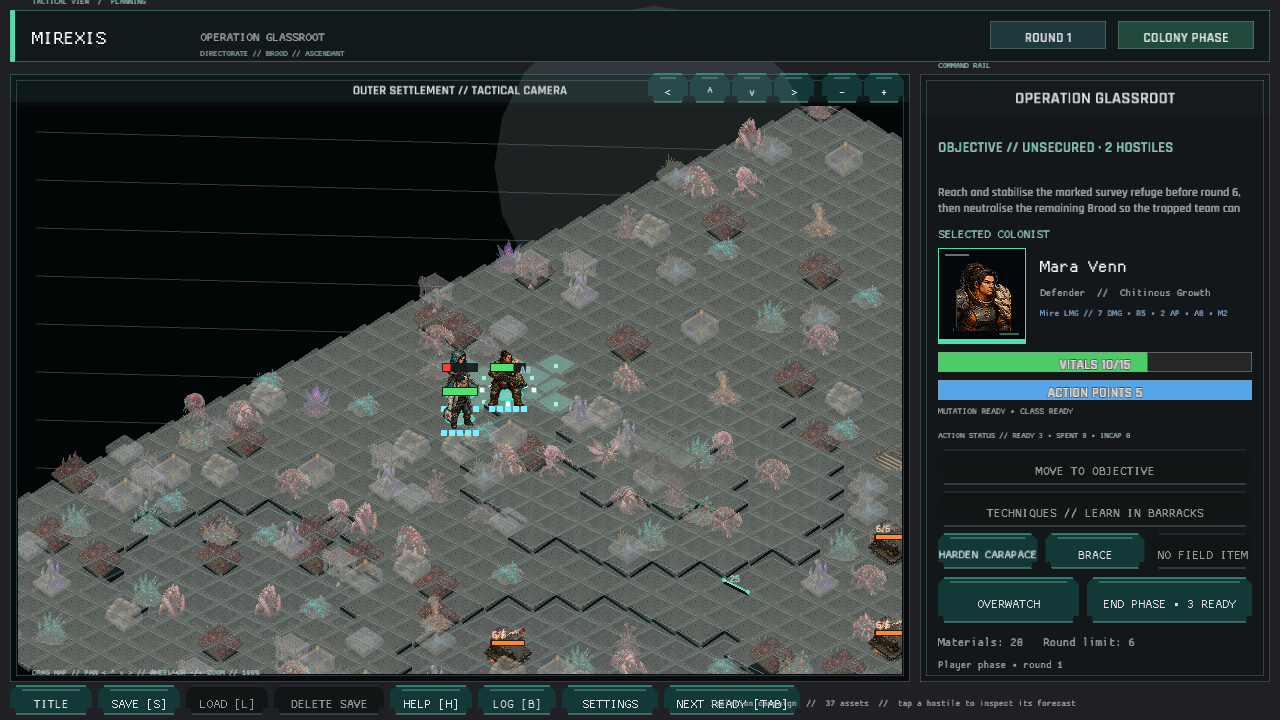
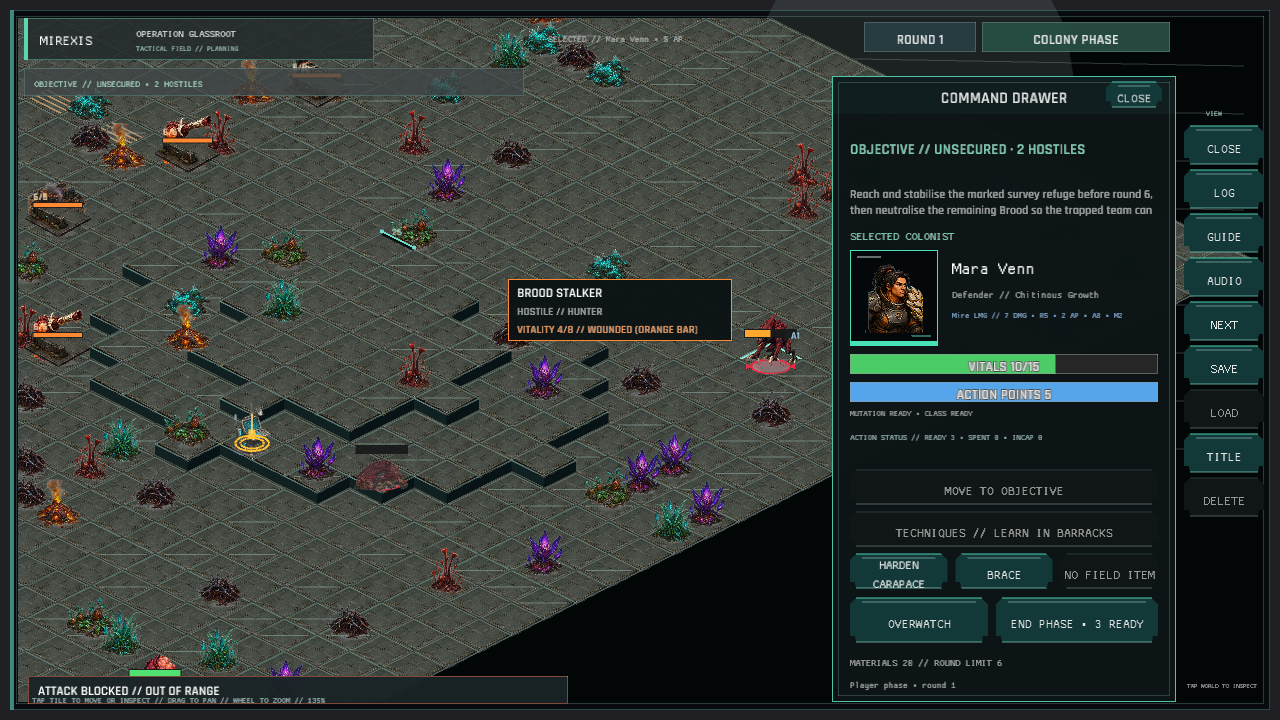
The wounded are named when the cursor finds their silhouette (tactical unit hover inspection)
Unit hover and click resolution previously tested only the ground diamond, while authored sprites and vitality bars extend well above it. A pointer over the visible hostile could therefore inspect an unrelated empty tile, leaving the orange wounded-vitality bar unexplained.

Expand unit hit bounds across the rendered silhouette and bar, prefer that resolved unit over the ground tile for hover and click actions, and show a bounded inspection card with allegiance, role, exact vitality, and the meaning of the orange state. Keep the card clear of the open command drawer.

The vitality-markers capture now drives a deterministic pointer over a half-health Brood stalker and records the tooltip with packaged assets. Verified with 513 unit tests, both integration checks, the 109-scene capture audit, formatting and source-size gates, and the full Windows/WebGL Preview publisher.

diff --git a/src/tactical_unit_ui.rs b/src/tactical_unit_ui.rs
@@ -6,7 +6,10 @@ use crate::state::UnitState;
 use crate::visual_assets::VisualCatalog;
 use macroquad::prelude::*;
 use macroquad_toolkit::assets::AssetManager;
-use macroquad_toolkit::prelude::TextStyle;
+use macroquad_toolkit::prelude::{dark, draw_surface, SurfaceStyle, TextStyle};
+
+#[cfg(test)]
+mod tests;
 
 pub(crate) fn draw_unit(
     assets: &AssetManager,
@@ -31,6 +34,87 @@ pub(crate) fn draw_unit(
     draw_vitality(rect, unit);
     if unit.team == Team::Colony && !unit.incapacitated {
         draw_readiness(rect, unit.action_points, max_action_points);
+    }
+}
+
+pub(crate) fn hover_hit(view: GridView, unit: &UnitState, point: Vec2) -> bool {
+    unit_hit_bounds(view.tile_rect(unit.position)).contains(point)
+}
+
+pub(crate) fn draw_hover_card(unit: &UnitState, view: GridView, viewport: Rect) {
+    let hit = unit_hit_bounds(view.tile_rect(unit.position));
+    let size = vec2(224.0, 62.0);
+    let right_x = hit.right() + 8.0;
+    let x = if right_x + size.x <= viewport.right() - 8.0 {
+        right_x
+    } else {
+        hit.x - size.x - 8.0
+    }
+    .clamp(viewport.x + 8.0, viewport.right() - size.x - 8.0);
+    let y = hit
+        .y
+        .max(viewport.y + 8.0)
+        .min(viewport.bottom() - size.y - 8.0);
+    let rect = Rect::new(x, y, size.x, size.y);
+    let accent = if unit.team == Team::Hostile {
+        Color::new(1.0, 0.54, 0.20, 1.0)
+    } else {
+        Color::new(0.24, 0.90, 0.76, 1.0)
+    };
+    draw_surface(
+        rect,
+        &SurfaceStyle::new(Color::new(0.025, 0.052, 0.058, 0.98)).with_border(2.0, accent),
+    );
+    draw_text_ex(
+        unit.name.to_uppercase(),
+        rect.x + 9.0,
+        rect.y + 18.0,
+        TextStyle::new(13.0, dark::TEXT_BRIGHT).params(),
+    );
+    draw_text_ex(
+        format!(
+            "{} // {}",
+            if unit.team == Team::Hostile {
+                "HOSTILE"
+            } else {
+                "COLONIST"
+            },
+            unit.role.to_uppercase()
+        ),
+        rect.x + 9.0,
+        rect.y + 36.0,
+        TextStyle::new(11.0, dark::TEXT_DIM).params(),
+    );
+    draw_text_ex(
+        format!(
+            "VITALITY {}/{} // {}",
+            unit.health.max(0),
+            unit.max_health,
+            vitality_condition(unit)
+        ),
+        rect.x + 9.0,
+        rect.y + 54.0,
+        TextStyle::new(11.0, accent).params(),
+    );
+}
+
+fn unit_hit_bounds(tile: Rect) -> Rect {
+    Rect::new(
+        tile.x + 2.0,
+        tile.y - tile.w,
+        tile.w - 4.0,
+        tile.h + tile.w + 2.0,
+    )
+}
+
+fn vitality_condition(unit: &UnitState) -> &'static str {
+    let ratio = unit.health.max(0) as f32 / unit.max_health.max(1) as f32;
+    if ratio > 0.6 {
+        "STEADY"
+    } else if ratio > 0.3 {
+        "WOUNDED (ORANGE BAR)"
+    } else {
+        "CRITICAL"
     }
 }
 

diff --git a/src/tactical_map_ui.rs b/src/tactical_map_ui.rs
@@ -79,10 +79,20 @@ pub(crate) fn draw(
     if !ctx.session.tactical.hazards.is_empty() {
         crate::hazard_ui::draw_legend(panel);
     }
-    let hovered = grid_rect
+    let ground_hovered = grid_rect
         .contains(mouse)
         .then(|| view.tile_at(mouse))
         .flatten();
+    let hovered_unit = grid_rect.contains(mouse).then(|| {
+        ctx.session
+            .tactical
+            .units
+            .iter()
+            .filter(|unit| crate::tactical_unit_ui::hover_hit(view, unit, mouse))
+            .max_by_key(|unit| unit.position.x + unit.position.y)
+    });
+    let hovered_unit = hovered_unit.flatten();
+    let hovered = hovered_unit.map(|unit| unit.position).or(ground_hovered);
     crate::ui::set_ui_clip(ctx.ui, Some(grid_rect));
     let mut tiles = ctx
         .session
@@ -160,6 +170,21 @@ pub(crate) fn draw(
     draw_foreground(ctx, view, hovered);
     ctx.feedback
         .draw(ctx.session, view, ctx.assets, ctx.visuals);
+    if input_enabled {
+        if let Some(unit) = hovered_unit {
+            let tooltip_viewport = if ctx.tactical_panel_open {
+                Rect::new(
+                    grid_rect.x,
+                    grid_rect.y,
+                    crate::ui::tactical_command_panel_rect().x - grid_rect.x - 8.0,
+                    grid_rect.h,
+                )
+            } else {
+                grid_rect
+            };
+            crate::tactical_unit_ui::draw_hover_card(unit, view, tooltip_viewport);
+        }
+    }
     crate::first_hour_tactical_ui::draw_map_focus(ctx, view, grid_rect, input_enabled);
     crate::ui::set_ui_clip(ctx.ui, None);
     let preview_input_consumed = crate::action_preview_ui::draw(
@@ -188,7 +213,7 @@ pub(crate) fn draw(
     );
     handle_click(
         ctx,
-        view,
+        hovered,
         grid_rect,
         mouse,
         suppress_map_click || preview_input_consumed || !map_input_enabled,
@@ -634,7 +659,7 @@ fn targeting_action(
 
 fn handle_click(
     ctx: &UiContext<'_>,
-    view: GridView,
+    hovered: Option<TilePos>,
     viewport: Rect,
     mouse: Vec2,
     suppress_click: bool,
@@ -646,7 +671,7 @@ fn handle_click(
     if !viewport.contains(mouse) {
         return;
     }
-    let Some(tile) = view.tile_at(mouse) else {
+    let Some(tile) = hovered else {
         return;
     };
     if let Some(targeting) = ctx.targeting {

diff --git a/src/ui.rs b/src/ui.rs
@@ -154,6 +154,7 @@ pub struct UiContext<'a> {
     pub delete_save_armed: bool,
     pub first_hour: &'a crate::first_hour::FirstHourProgress,
     pub ui: &'a VirtualUi,
+    pub pointer_override: Option<Vec2>,
     pub targeting: Option<TargetingView<'a>>,
     pub show_help: bool,
     pub show_battle_log: bool,
@@ -374,7 +375,9 @@ pub fn draw_tactical(
     camera: &mut crate::grid_ui::WorldCamera,
 ) -> Vec<UiAction> {
     let mut actions = Vec::new();
-    let mouse = pointer_position(ctx.ui);
+    let mouse = ctx
+        .pointer_override
+        .unwrap_or_else(|| pointer_position(ctx.ui));
     let input_enabled = tactical_world_input_enabled(
         ctx.show_help,
         ctx.show_battle_log,

diff --git a/src/game.rs b/src/game.rs
@@ -79,6 +79,7 @@ pub struct Game {
     title_focus_continue: bool,
     title_focus_active: bool,
     title_hover_preview: bool,
+    capture_pointer: Option<Vec2>,
     new_campaign_armed: bool,
     delete_save_armed: bool,
     tactical_camera: WorldCamera,
@@ -193,6 +194,7 @@ impl Game {
                     delete_save_armed: self.delete_save_armed,
                     first_hour: &self.campaign.first_hour,
                     ui: &virtual_ui,
+                    pointer_override: self.capture_pointer,
                     targeting: self.targeting.as_ref().map(|targeting| match targeting {
                         TacticalTargeting::Equipment {
                             unit_id,

diff --git a/src/game/capture_tactical.rs b/src/game/capture_tactical.rs
@@ -230,6 +230,13 @@ impl Game {
         }
         self.session.tactical.selected_unit = Some("mara_venn".to_owned());
         self.session.tactical.selected_tile = self.session.unit("mara_venn").unwrap().position;
+        let hostile_position = self.session.unit("brood_stalker_a").unwrap().position;
+        self.tactical_camera = crate::grid_ui::WorldCamera::tactical_view(
+            hostile_position,
+            self.session.tactical.selected_tile,
+            1.35,
+        );
+        self.capture_pointer = Some(macroquad::prelude::vec2(772.0, 342.0));
     }
 
     pub(super) fn capture_readiness_markers(&mut self) {

diff --git a/src/tactical_unit_ui/tests.rs b/src/tactical_unit_ui/tests.rs
@@ -1,0 +1,12 @@
+use super::*;
+
+#[test]
+fn unit_hover_bounds_include_the_visible_sprite_and_vitality_bar() {
+    let tile = Rect::new(100.0, 100.0, 48.0, 24.0);
+    let hit = unit_hit_bounds(tile);
+
+    assert!(hit.contains(vec2(124.0, 54.0)), "sprite top must inspect");
+    assert!(hit.contains(vec2(124.0, 87.0)), "vitality bar must inspect");
+    assert!(hit.contains(tile.center()), "ground tile must inspect");
+    assert!(!hit.contains(vec2(80.0, 80.0)));
+}

diff --git a/src/game/capture_reset.rs b/src/game/capture_reset.rs
@@ -50,6 +50,7 @@ impl Game {
         self.selected_field_note = 0;
         self.roster_inspection_id = None;
         self.title_hover_preview = false;
+        self.capture_pointer = None;
         self.new_campaign_armed = false;
         self.delete_save_armed = false;
         self.colony_explorer.reset();

diff --git a/src/game/bootstrap.rs b/src/game/bootstrap.rs
@@ -92,6 +92,7 @@ impl Game {
             title_focus_continue: false,
             title_focus_active: false,
             title_hover_preview: false,
+            capture_pointer: None,
             new_campaign_armed: false,
             delete_save_armed: false,
             tactical_camera,

diff --git a/docs/verification/FINAL_CAPTURE_INVENTORY.md b/docs/verification/FINAL_CAPTURE_INVENTORY.md
@@ -144,7 +144,7 @@ Manifest: `scripts/capture_ui.ps1`
[8 lines of base64/hex data omitted]
